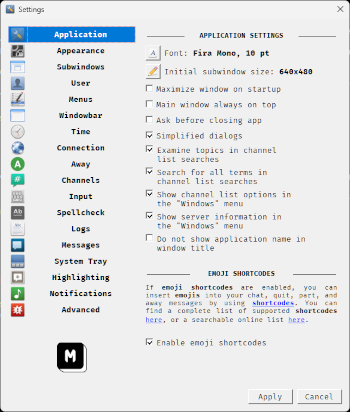
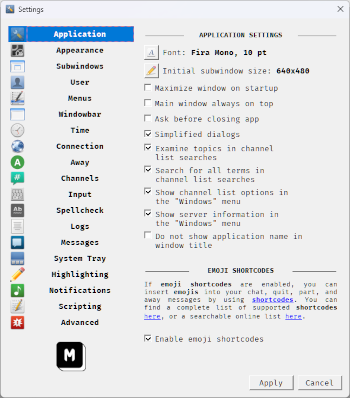
Latest build
Changes to the settings dialog (scripting settings were moved to their own page, and off the "Advanced" page)

diff --git a/README.html b/README.html
@@ -1,4 +1,4 @@
-<h1>MERK 0.050.142</h1>
+<h1>MERK 0.050.143</h1>
 
 <p><a href="https://github.com/nutjob-laboratories/merk">Official source code repository</a></p>
 <h1 id="table-of-contents">Table of contents</h1>
@@ -14,7 +14,7 @@
 <li><a href="#does-merk-need-any-help">Does MERK need any help?</a></li>
 </ul>
 <h1 id="summary">Summary</h1>
-<p><strong>MERK</strong> is a graphical <a href="https://www.gnu.org/licenses/gpl-3.0.en.html">open source</a> <a href="https://en.wikipedia.org/wiki/Internet_Relay_Chat">Internet relay chat</a> client. The current development version is <strong>0.050.142</strong>. It uses a <a href="https://en.wikipedia.org/wiki/Multiple-document_interface">multiple-document interface</a>, much like the popular Windows IRC client <a href="https://www.mirc.com/">mIRC</a>.  <strong>MERK</strong> is written in Python 3, using the <a href="https://pypi.org/project/PyQt5/">PyQt5</a> and <a href="https://twistedmatrix.com/trac/">Twisted</a> libraries, and runs on both Windows and Linux. <strong>MERK</strong> is updated frequently with new features and bugfixes.</p>
+<p><strong>MERK</strong> is a graphical <a href="https://www.gnu.org/licenses/gpl-3.0.en.html">open source</a> <a href="https://en.wikipedia.org/wiki/Internet_Relay_Chat">Internet relay chat</a> client. The current development version is <strong>0.050.143</strong>. It uses a <a href="https://en.wikipedia.org/wiki/Multiple-document_interface">multiple-document interface</a>, much like the popular Windows IRC client <a href="https://www.mirc.com/">mIRC</a>.  <strong>MERK</strong> is written in Python 3, using the <a href="https://pypi.org/project/PyQt5/">PyQt5</a> and <a href="https://twistedmatrix.com/trac/">Twisted</a> libraries, and runs on both Windows and Linux. <strong>MERK</strong> is updated frequently with new features and bugfixes.</p>
 <p><strong>MERK</strong> is still in development, but it works, and can be used for most IRC activities.</p>
 <p>Join me on the official <strong>MERK</strong> IRC channel, <strong>#merk</strong> on the Libera Chat network! Connect to  Libera in the client as one of the built-in server suggestions, or at <strong>irc.libera.chat</strong>, port <strong>6667</strong> (you can also connect via SSL on port <strong>6697</strong>). Honestly, I work a lot, so I&#39;m almost always idle, but I pop in and chat a few times a day!</p>
 <h1 id="making-merk-portable-on-windows">Making MERK Portable on Windows</h1>

diff --git a/merk/resources/README.html b/merk/resources/README.html
@@ -1,4 +1,4 @@
-<h1>MERK 0.050.142</h1>
+<h1>MERK 0.050.143</h1>
 
 <p><a href="https://github.com/nutjob-laboratories/merk">Official source code repository</a></p>
 <h1 id="table-of-contents">Table of contents</h1>
@@ -14,7 +14,7 @@
 <li><a href="#does-merk-need-any-help">Does MERK need any help?</a></li>
 </ul>
 <h1 id="summary">Summary</h1>
-<p><strong>MERK</strong> is a graphical <a href="https://www.gnu.org/licenses/gpl-3.0.en.html">open source</a> <a href="https://en.wikipedia.org/wiki/Internet_Relay_Chat">Internet relay chat</a> client. The current development version is <strong>0.050.142</strong>. It uses a <a href="https://en.wikipedia.org/wiki/Multiple-document_interface">multiple-document interface</a>, much like the popular Windows IRC client <a href="https://www.mirc.com/">mIRC</a>.  <strong>MERK</strong> is written in Python 3, using the <a href="https://pypi.org/project/PyQt5/">PyQt5</a> and <a href="https://twistedmatrix.com/trac/">Twisted</a> libraries, and runs on both Windows and Linux. <strong>MERK</strong> is updated frequently with new features and bugfixes.</p>
+<p><strong>MERK</strong> is a graphical <a href="https://www.gnu.org/licenses/gpl-3.0.en.html">open source</a> <a href="https://en.wikipedia.org/wiki/Internet_Relay_Chat">Internet relay chat</a> client. The current development version is <strong>0.050.143</strong>. It uses a <a href="https://en.wikipedia.org/wiki/Multiple-document_interface">multiple-document interface</a>, much like the popular Windows IRC client <a href="https://www.mirc.com/">mIRC</a>.  <strong>MERK</strong> is written in Python 3, using the <a href="https://pypi.org/project/PyQt5/">PyQt5</a> and <a href="https://twistedmatrix.com/trac/">Twisted</a> libraries, and runs on both Windows and Linux. <strong>MERK</strong> is updated frequently with new features and bugfixes.</p>
 <p><strong>MERK</strong> is still in development, but it works, and can be used for most IRC activities.</p>
 <p>Join me on the official <strong>MERK</strong> IRC channel, <strong>#merk</strong> on the Libera Chat network! Connect to  Libera in the client as one of the built-in server suggestions, or at <strong>irc.libera.chat</strong>, port <strong>6667</strong> (you can also connect via SSL on port <strong>6697</strong>). Honestly, I work a lot, so I&#39;m almost always idle, but I pop in and chat a few times a day!</p>
 <h1 id="making-merk-portable-on-windows">Making MERK Portable on Windows</h1>

diff --git a/merk/dialog/settings.py b/merk/dialog/settings.py
@@ -412,12 +412,11 @@ class Dialog(QDialog):
 
 	def changedAlias(self,state):
 		if self.enableAlias.isChecked():
-			if self.advancedEnable.isChecked():
-				self.autocompleteAlias.setEnabled(True)
-				self.interpolateAlias.setEnabled(True)
-				self.syntaxalias.setEnabled(True)
-				self.alias_symbol_label.setEnabled(True)
-				self.alias_symbol.setEnabled(True)
+			self.autocompleteAlias.setEnabled(True)
+			self.interpolateAlias.setEnabled(True)
+			self.syntaxalias.setEnabled(True)
+			self.alias_symbol_label.setEnabled(True)
+			self.alias_symbol.setEnabled(True)
 		else:
 			self.autocompleteAlias.setEnabled(False)
 			self.interpolateAlias.setEnabled(False)
@@ -425,25 +424,23 @@ class Dialog(QDialog):
 			self.alias_symbol_label.setEnabled(False)
 			self.alias_symbol.setEnabled(False)
 		self.changed.show()
-		self.restart.show()
+		#self.restart.show()
 		self.boldApply()
 		self.selector.setFocus()
 
 	def changedScripting(self,state):
 		if self.enableScripts.isChecked():
-			if self.advancedEnable.isChecked():
-				self.showErrors.setEnabled(True)
+			self.showErrors.setEnabled(True)
 		else:
 			self.showErrors.setEnabled(False)
 		self.changed.show()
-		self.restart.show()
+		#self.restart.show()
 		self.boldApply()
 		self.selector.setFocus()
 
 	def changedInterpolate(self,state):
 		if self.interpolateAlias.isChecked():
-			if self.advancedEnable.isChecked():
-				self.autocompleteAlias.setEnabled(True)
+			self.autocompleteAlias.setEnabled(True)
 		else:
 			self.autocompleteAlias.setEnabled(False)
 		self.changed.show()
@@ -744,43 +741,16 @@ class Dialog(QDialog):
 	def clickedAdvanced(self,state):
 		if self.advancedEnable.isChecked():
 			self.logEverything.setEnabled(True)
-			self.interpolateAlias.setEnabled(True)
 			self.writeConsole.setEnabled(True)
 			self.writeFile.setEnabled(True)
-			self.enableAlias.setEnabled(True)
 			self.enableStyle.setEnabled(True)
-			self.showErrors.setEnabled(True)
-			self.enableScripts.setEnabled(True)
-			self.alias_symbol_label.setEnabled(True)
-			self.alias_symbol.setEnabled(True)
 			self.enablePing.setEnabled(True)
-			self.enableShell.setEnabled(True)
-
-			if not config.SCRIPTING_ENGINE_ENABLED:
-				self.showErrors.setEnabled(False)
-
-			if not config.ENABLE_ALIASES:
-				self.interpolateAlias.setEnabled(False)
-				self.alias_symbol_label.setEnabled(False)
-				self.alias_symbol.setEnabled(False)
 		else:
 			self.logEverything.setEnabled(False)
-			self.interpolateAlias.setEnabled(False)
 			self.writeConsole.setEnabled(False)
 			self.writeFile.setEnabled(False)
-			self.enableAlias.setEnabled(False)
 			self.enableStyle.setEnabled(False)
-			self.showErrors.setEnabled(False)
-			self.enableScripts.setEnabled(False)
-			self.alias_symbol_label.setEnabled(False)
-			self.alias_symbol.setEnabled(False)
 			self.enablePing.setEnabled(False)
-			self.enableShell.setEnabled(False)
-
-			if config.ENABLE_SHELL_COMMAND:
-				self.enableShell.setChecked(True)
-			else:
-				self.enableShell.setChecked(False)
 
 			if config.SHOW_PINGS_IN_CONSOLE:
 				self.enablePing.setChecked(True)
@@ -788,17 +758,6 @@ class Dialog(QDialog):
 				self.enablePing.setChecked(False)
 
 			self.alias_symbol.setText(config.ALIAS_INTERPOLATION_SYMBOL)
-
-			if config.SCRIPTING_ENGINE_ENABLED:
-				self.enableScripts.setChecked(True)
-			else:
-				self.enableScripts.setChecked(False)
-				#self.showErrors.setEnabled(False)
-
-			if config.DISPLAY_SCRIPT_ERRORS:
-				self.showErrors.setChecked(True)
-			else:
-				self.showErrors.setChecked(False)
 
 			if config.ENABLE_STYLE_EDITOR:
 				self.enableStyle.setChecked(True)
@@ -810,13 +769,6 @@ class Dialog(QDialog):
 			else:
 				self.logEverything.setChecked(False)
 
-			if config.INTERPOLATE_ALIASES_INTO_INPUT:
-				self.interpolateAlias.setChecked(True)
-				#self.autocompleteAlias.setEnabled(True)
-			else:
-				self.interpolateAlias.setChecked(False)
-				#self.autocompleteAlias.setEnabled(False)
-
 			if config.WRITE_INPUT_AND_OUTPUT_TO_CONSOLE:
 				self.writeConsole.setChecked(True)
 			else:
@@ -826,11 +778,6 @@ class Dialog(QDialog):
 				self.writeFile.setChecked(True)
 			else:
 				self.writeFile.setChecked(False)
-
-			if config.ENABLE_ALIASES:
-				self.enableAlias.setChecked(True)
-			else:
-				self.enableAlias.setChecked(False)
 
 		self.selector.setFocus()
 
@@ -2441,7 +2388,6 @@ class Dialog(QDialog):
 			or edited with it (if you have the right permissions) by clicking
 			on the <b>topic</b> and editing it. Here, the
 			<b>channel information display</b> can be customized or turned off.
-			<br>
 			</small>
 			""")
 		self.channelDescription.setWordWrap(True)
@@ -2515,6 +2461,7 @@ class Dialog(QDialog):
 		menuLayout.addWidget(widgets.textSeparatorLabel(self,"<b>channel information display</b>"))
 		menuLayout.addWidget(self.channelDescription)
 		menuLayout.addLayout(infoExist)
+		menuLayout.addWidget(QLabel(' '))
 		menuLayout.addLayout(chanButtonLayout)
 		menuLayout.addWidget(self.topicBold)
 		menuLayout.addWidget(QLabel(' '))
@@ -3587,6 +3534,86 @@ class Dialog(QDialog):
 
 		self.notificationsPage.setLayout(audioLayout)
 
+		# Scripting
+
+		self.scriptingPage = QWidget()
+
+		entry = QListWidgetItem()
+		entry.setTextAlignment(Qt.AlignHCenter|Qt.AlignVCenter)
+		entry.setText("Scripting")
+		entry.widget = self.scriptingPage
+		entry.setIcon(QIcon(README_ICON))
+		self.selector.addItem(entry)
+
+		self.stack.addWidget(self.scriptingPage)
+
+		self.interpolateAlias = QCheckBox("Interpolate aliases into input\nfrom the text input widget",self)
+		if config.INTERPOLATE_ALIASES_INTO_INPUT: self.interpolateAlias.setChecked(True)
+		self.interpolateAlias.stateChanged.connect(self.changedInterpolate)
+		if not config.INTERPOLATE_ALIASES_INTO_INPUT: self.autocompleteAlias.setEnabled(False)
+		self.interpolateAlias.setStyleSheet("QCheckBox { text-align: left top; } QCheckBox::indicator { subcontrol-origin: padding; subcontrol-position: left top; }")
+
+		self.enableAlias = QCheckBox("Enable aliases",self)
+		if config.ENABLE_ALIASES: self.enableAlias.setChecked(True)
+		self.enableAlias.stateChanged.connect(self.changedAlias)
+
+		self.enableScripts = QCheckBox("Enable scripting",self)
+		if config.SCRIPTING_ENGINE_ENABLED: self.enableScripts.setChecked(True)
+		self.enableScripts.stateChanged.connect(self.changedScripting)
+
+		self.showErrors = QCheckBox("Show error messages when\nexecuting scripts",self)
+		if config.DISPLAY_SCRIPT_ERRORS: self.showErrors.setChecked(True)
+		self.showErrors.stateChanged.connect(self.changedSetting)
+		self.showErrors.setStyleSheet("QCheckBox { text-align: left top; } QCheckBox::indicator { subcontrol-origin: padding; subcontrol-position: left top; }")
+
+		fm = QFontMetrics(self.font())
+		wwidth = fm.horizontalAdvance("AA")
+
+		self.alias_symbol = QNoSpaceLineEdit(config.ALIAS_INTERPOLATION_SYMBOL)
+		self.alias_symbol.setMaximumWidth(wwidth)
+		self.alias_symbol.textChanged.connect(self.changedSettingAdvancedSymbol)
+		self.alias_symbol_label = QLabel("Alias interpolation symbol")
+
+		aliasLayout = QHBoxLayout()
+		aliasLayout.addWidget(self.alias_symbol)
+		aliasLayout.addWidget(self.alias_symbol_label)
+		aliasLayout.addStretch()
+
+		self.enableShell = QCheckBox(f"Enable {config.ISSUE_COMMAND_SYMBOL}shell command",self)
+		if config.ENABLE_SHELL_COMMAND: self.enableShell.setChecked(True)
+		self.enableShell.stateChanged.connect(self.changedSetting)
+
+		self.scriptingDescription = QLabel(f"""
+			<small><b>Scripting</b> allows <b>{APPLICATION_NAME}</b> to automate commands upon connection, as well
+			as for multiple commands to be executed in sequence. Turning off <b>scripting</b> will
+			prevent scripts and connection scripts from being executed or edited in <b>{APPLICATION_NAME}</b>,
+			but it will not turn off commands entered in the input widget.
+			</small>
+			
+			""")
+		self.scriptingDescription.setWordWrap(True)
+		self.scriptingDescription.setAlignment(Qt.AlignJustify)
+
+		seLayout = QHBoxLayout()
+		seLayout.addStretch()
+		seLayout.addWidget(self.enableScripts)
+		seLayout.addStretch()
+
+		scriptingLayout = QVBoxLayout()
+		scriptingLayout.addWidget(widgets.textSeparatorLabel(self,"<b>scripting</b>"))
+		scriptingLayout.addWidget(self.scriptingDescription)
+		scriptingLayout.addLayout(seLayout)
+		scriptingLayout.addWidget(QLabel(' '))
+		scriptingLayout.addWidget(widgets.textSeparatorLabel(self,"<b>scripting settings</b>"))
+		scriptingLayout.addWidget(self.enableAlias)
+		scriptingLayout.addWidget(self.interpolateAlias)
+		scriptingLayout.addLayout(aliasLayout)
+		scriptingLayout.addWidget(self.showErrors)
+		scriptingLayout.addWidget(self.enableShell)
+		scriptingLayout.addStretch()
+
+		self.scriptingPage.setLayout(scriptingLayout)
+
 		# Advanced
 
 		self.advancedPage = QWidget()
@@ -3620,13 +3647,6 @@ class Dialog(QDialog):
 		self.advancedDescription.setWordWrap(True)
 		self.advancedDescription.setAlignment(Qt.AlignJustify)
 
-		self.interpolateAlias = QCheckBox("Interpolate aliases into input\nfrom the text input widget",self)
-		if config.INTERPOLATE_ALIASES_INTO_INPUT: self.interpolateAlias.setChecked(True)
-		self.interpolateAlias.stateChanged.connect(self.changedInterpolate)
-		self.interpolateAlias.setEnabled(False)
-		if not config.INTERPOLATE_ALIASES_INTO_INPUT: self.autocompleteAlias.setEnabled(False)
-		self.interpolateAlias.setStyleSheet("QCheckBox { text-align: left top; } QCheckBox::indicator { subcontrol-origin: padding; subcontrol-position: left top; }")
-
 		self.writeConsole = QCheckBox("Write all network input and\noutput to STDOUT",self)
 		if config.WRITE_INPUT_AND_OUTPUT_TO_CONSOLE: self.writeConsole.setChecked(True)
 		self.writeConsole.stateChanged.connect(self.changedSettingAdvanced)
@@ -3639,41 +3659,10 @@ class Dialog(QDialog):
 		self.writeFile.setEnabled(False)
 		self.writeFile.setStyleSheet("QCheckBox { text-align: left top; } QCheckBox::indicator { subcontrol-origin: padding; subcontrol-position: left top; }")
 
-		self.enableAlias = QCheckBox("Enable aliases",self)
-		if config.ENABLE_ALIASES: self.enableAlias.setChecked(True)
-		self.enableAlias.stateChanged.connect(self.changedAlias)
-		self.enableAlias.setEnabled(False)
-
 		self.enableStyle = QCheckBox("Enable text style editor",self)
 		if config.ENABLE_STYLE_EDITOR: self.enableStyle.setChecked(True)
 		self.enableStyle.stateChanged.connect(self.changedSettingAdvanced)
 		self.enableStyle.setEnabled(False)
-
-		self.enableScripts = QCheckBox("Enable scripting",self)
-		if config.SCRIPTING_ENGINE_ENABLED: self.enableScripts.setChecked(True)
-		self.enableScripts.stateChanged.connect(self.changedScripting)
-		self.enableScripts.setEnabled(False)
-
-		self.showErrors = QCheckBox("Show error messages when\nexecuting scripts",self)
-		if config.DISPLAY_SCRIPT_ERRORS: self.showErrors.setChecked(True)
-		self.showErrors.stateChanged.connect(self.changedSettingAdvanced)
-		self.showErrors.setEnabled(False)
-		self.showErrors.setStyleSheet("QCheckBox { text-align: left top; } QCheckBox::indicator { subcontrol-origin: padding; subcontrol-position: left top; }")
-
-		fm = QFontMetrics(self.font())
-		wwidth = fm.horizontalAdvance("AA")
-
-		self.alias_symbol = QNoSpaceLineEdit(config.ALIAS_INTERPOLATION_SYMBOL)
-		self.alias_symbol.setMaximumWidth(wwidth)
-		self.alias_symbol.textChanged.connect(self.changedSettingAdvancedSymbol)
-		self.alias_symbol_label = QLabel("Alias interpolation symbol")
-		self.alias_symbol_label.setEnabled(False)
-		self.alias_symbol.setEnabled(False)
-
-		aliasLayout = QHBoxLayout()
-		aliasLayout.addWidget(self.alias_symbol)
-		aliasLayout.addWidget(self.alias_symbol_label)
-		aliasLayout.addStretch()
 
 		self.enablePing = QCheckBox("Show server pings in server windows",self)
 		if config.SHOW_PINGS_IN_CONSOLE: self.enablePing.setChecked(True)
@@ -3685,23 +3674,13 @@ class Dialog(QDialog):
 		aoLayout.addWidget(self.advancedEnable)
 		aoLayout.addStretch()
 
-		self.enableShell = QCheckBox(f"Enable {config.ISSUE_COMMAND_SYMBOL}shell command",self)
-		if config.ENABLE_SHELL_COMMAND: self.enableShell.setChecked(True)
-		self.enableShell.stateChanged.connect(self.changedSettingAdvanced)
-		self.enableShell.setEnabled(False)
-
 		advancedLayout = QVBoxLayout()
 		advancedLayout.addWidget(widgets.textSeparatorLabel(self,"<b>advanced</b>"))
 		advancedLayout.addWidget(self.advancedDescription)
 		advancedLayout.addLayout(aoLayout)
+		advancedLayout.addWidget(QLabel(' '))
 		advancedLayout.addWidget(widgets.textSeparatorLabel(self,"<b>advanced settings</b>"))
-		advancedLayout.addWidget(self.enableAlias)
-		advancedLayout.addWidget(self.interpolateAlias)
-		advancedLayout.addLayout(aliasLayout)
 		advancedLayout.addWidget(self.enableStyle)
-		advancedLayout.addWidget(self.enableScripts)
-		advancedLayout.addWidget(self.showErrors)
-		advancedLayout.addWidget(self.enableShell)
 		advancedLayout.addWidget(self.enablePing)
 		advancedLayout.addWidget(self.logEverything)
 		advancedLayout.addWidget(self.writeConsole)
@@ -3750,7 +3729,7 @@ class Dialog(QDialog):
 		leftLayout = QVBoxLayout()
 		leftLayout.addWidget(self.selector)
 		leftLayout.addWidget(logo)
-		leftLayout.addWidget(QLabel(" "))
+		#leftLayout.addWidget(QLabel(" "))
 
 		mainLayout = QHBoxLayout()
 		mainLayout.addLayout(leftLayout)

diff --git a/merk/resources/version.py b/merk/resources/version.py
@@ -1,1 +1,1 @@
-APPLICATION_VERSION = "0.050.142"
+APPLICATION_VERSION = "0.050.143"

diff --git a/README.md b/README.md
@@ -3,7 +3,7 @@
   <b><big>Open Source IRC Client</big></b><br>
   <i>A multiple-document interface IRC client for Windows and Linux</i><br>
   <b><big>Current stable release: <a href="https://github.com/nutjob-laboratories/merk/releases/tag/0.050.130">MERK 0.050.130</a></big></b><br>
-  <b>Current development version: 0.050.142</b><br><br>
+  <b>Current development version: 0.050.143</b><br><br>
   <b><a href="https://gofund.me/ae062139">Help Fund MERK!</a></b><br>
 </p>
 
@@ -30,13 +30,13 @@ All files are packed in [ZIP archive files](https://en.wikipedia.org/wiki/ZIP_(f
 | :----:    | :----:    | :----:    |
 | User Guide |  -  | [View](./MERK_User_Guide.pdf)  |
 | Current Release |  -  | [MERK 0.050.130 Release](https://github.com/nutjob-laboratories/merk/releases/tag/0.050.130)  |
-| Zip Archive|  Cross-platform  | [Download MERK 0.050.142 (11.81 MB)](https://www.dropbox.com/scl/fi/pf9p7ltb3uufm5akjz7l0/merk-latest.zip?rlkey=3caodopybbcxr4p9grxygxzym&st=01zsuura&dl=1)  |
-| Zip Archive|  Windows | [Download MERK 0.050.142 (48.61 MB)](https://www.dropbox.com/scl/fi/4w9ufyknzac24o06710bi/merk-windows-latest.zip?rlkey=zmir67l3klg8mw0omxayzmssc&st=vb69tsdi&dl=1)|
-|   Windows Installer|  Windows | [Download MERK 0.050.142 (45.75 MB)](https://www.dropbox.com/scl/fi/0u1vcg5xuntzs2b16e01b/merk_setup.zip?rlkey=8avj1gyed3txz1nfj9ev41mmh&st=zlve4c1o&dl=1)|
+| Zip Archive|  Cross-platform  | [Download MERK 0.050.143 (11.81 MB)](https://www.dropbox.com/scl/fi/pf9p7ltb3uufm5akjz7l0/merk-latest.zip?rlkey=3caodopybbcxr4p9grxygxzym&st=01zsuura&dl=1)  |
+| Zip Archive|  Windows | [Download MERK 0.050.143 (48.61 MB)](https://www.dropbox.com/scl/fi/4w9ufyknzac24o06710bi/merk-windows-latest.zip?rlkey=zmir67l3klg8mw0omxayzmssc&st=vb69tsdi&dl=1)|
+|   Windows Installer|  Windows | [Download MERK 0.050.143 (45.74 MB)](https://www.dropbox.com/scl/fi/0u1vcg5xuntzs2b16e01b/merk_setup.zip?rlkey=8avj1gyed3txz1nfj9ev41mmh&st=zlve4c1o&dl=1)|
 
 # Summary
   
-**MERK** is a graphical [open source](https://www.gnu.org/licenses/gpl-3.0.en.html) [Internet relay chat](https://en.wikipedia.org/wiki/Internet_Relay_Chat) client. The current development version is **0.050.142**. It uses a [multiple-document interface](https://en.wikipedia.org/wiki/Multiple-document_interface), much like the popular Windows IRC client [mIRC](https://www.mirc.com/).  **MERK** is written in Python 3, using the [PyQt5](https://pypi.org/project/PyQt5/) and [Twisted](https://twistedmatrix.com/trac/) libraries, and runs on both Windows and Linux. **MERK** is updated frequently with new features and bugfixes.
+**MERK** is a graphical [open source](https://www.gnu.org/licenses/gpl-3.0.en.html) [Internet relay chat](https://en.wikipedia.org/wiki/Internet_Relay_Chat) client. The current development version is **0.050.143**. It uses a [multiple-document interface](https://en.wikipedia.org/wiki/Multiple-document_interface), much like the popular Windows IRC client [mIRC](https://www.mirc.com/).  **MERK** is written in Python 3, using the [PyQt5](https://pypi.org/project/PyQt5/) and [Twisted](https://twistedmatrix.com/trac/) libraries, and runs on both Windows and Linux. **MERK** is updated frequently with new features and bugfixes.
 
 **MERK** is still in development, but it works, and can be used for most IRC activities. [The current stable release of **MERK** is version 0.050.130](https://github.com/nutjob-laboratories/merk/releases/tag/0.050.130). **MERK** has a user guide, which can be [viewed here](./MERK_User_Guide.pdf).
 
@@ -118,7 +118,7 @@ There are three libraries that comes bundled with **MERK**:
 
 # Screenshots
 
-<p><small><i>Screenshots may not reflect the current release (0.050.130), and may reflect the current development version (0.050.142). More screenshots are in the <a href="./MERK_User_Guide.pdf">MERK User Guide</a>.</i></small></p>
+<p><small><i>Screenshots may not reflect the current release (0.050.130), and may reflect the current development version (0.050.143). More screenshots are in the <a href="./MERK_User_Guide.pdf">MERK User Guide</a>.</i></small></p>
 
 <p align="center">
 <center><a href="./graphics/screenshot_big.png"><img src="./graphics/screenshot1.png"></a></center></br>
